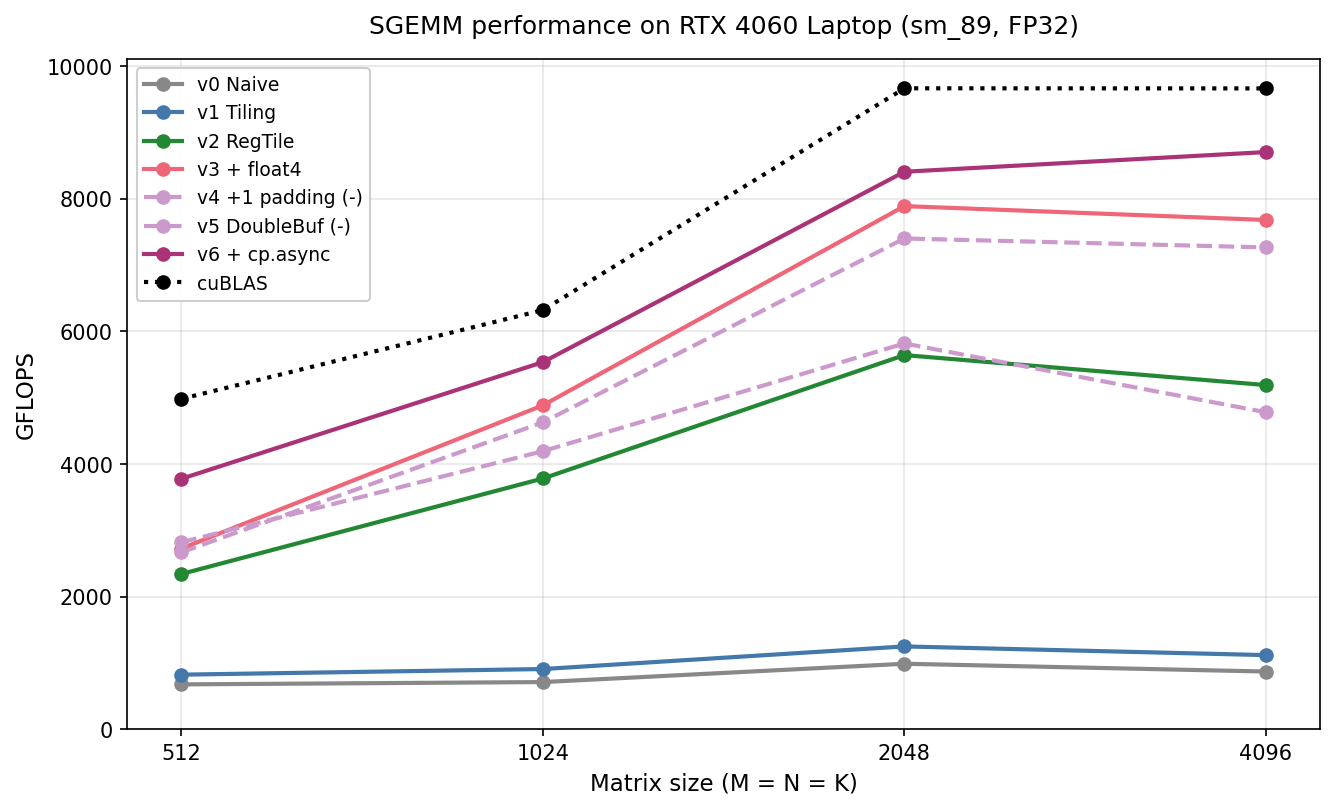
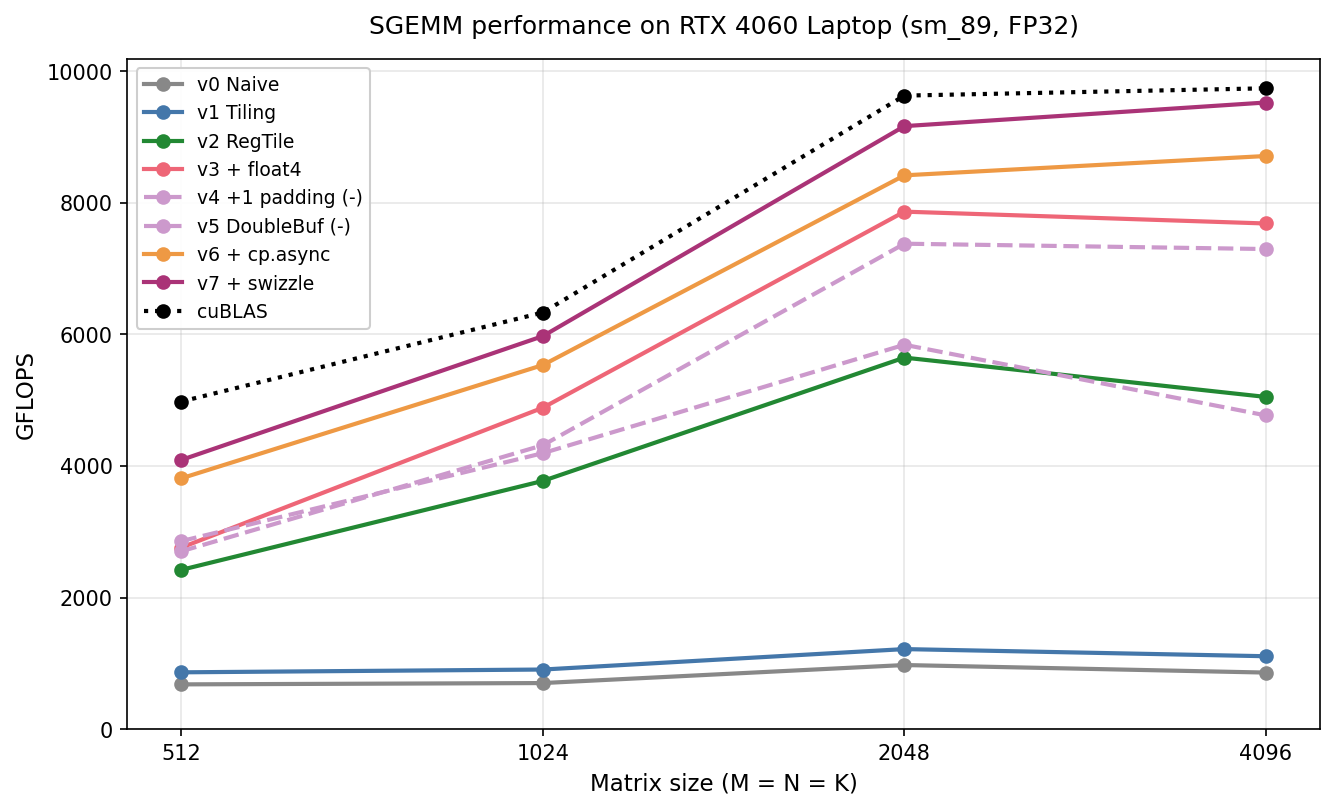
Update README + figures for v7 swizzle
Add v7 to the table and charts (one consistent 4096 run: 9524 GFLOPS,
~98% of cuBLAS, the new headline). New "Why v7 wins" section: the XOR
swizzle drives shared bank conflicts to zero (268M -> 0), shared-load
traffic -43%, occupancy unchanged. All numbers refreshed to the same run.

diff --git a/scripts/plot_results.py b/scripts/plot_results.py
@@ -12,7 +12,7 @@ Outputs:
 
 Numbers below come from the most recent full-power benchmark run on
 RTX 4060 Laptop (sm_89), CUDA 12.4, alpha=1, beta=0, 10 timed iterations
-(2026-05-21 run, includes v6 cp.async).
+(2026-05-21 run, includes v6 cp.async + v7 swizzle).
 Update this dict when you re-run benchmarks.
 """
 
@@ -27,14 +27,15 @@ from pathlib import Path
 SIZES = [512, 1024, 2048, 4096]
 
 RESULTS = {
-    "v0 Naive":          [674.6,  709.3,  985.7,  868.6],
-    "v1 Tiling":         [821.1,  906.1, 1247.4, 1116.3],
-    "v2 RegTile":        [2340.7, 3781.7, 5643.8, 5191.3],
-    "v3 + float4":       [2724.5, 4885.6, 7892.1, 7682.8],
-    "v4 +1 padding (-)": [2667.5, 4629.2, 7403.7, 7268.5],
-    "v5 DoubleBuf (-)":  [2819.4, 4193.6, 5819.2, 4780.6],
-    "v6 + cp.async":     [3777.3, 5537.7, 8410.5, 8707.6],
-    "cuBLAS":            [4983.1, 6322.7, 9669.8, 9668.0],
+    "v0 Naive":          [679.6,  699.6,  973.6,  859.0],
+    "v1 Tiling":         [862.8,  905.2, 1215.9, 1107.4],
+    "v2 RegTile":        [2420.4, 3772.5, 5646.8, 5048.7],
+    "v3 + float4":       [2759.4, 4885.2, 7865.5, 7685.3],
+    "v4 +1 padding (-)": [2702.9, 4315.2, 7378.1, 7297.0],
+    "v5 DoubleBuf (-)":  [2857.6, 4194.4, 5842.0, 4767.8],
+    "v6 + cp.async":     [3812.0, 5534.0, 8417.5, 8711.2],
+    "v7 + swizzle":      [4091.6, 5973.6, 9165.3, 9524.5],
+    "cuBLAS":            [4979.3, 6332.2, 9629.4, 9740.3],
 }
 
 # Color scheme: positive optimizations bright, negative results muted
@@ -45,7 +46,8 @@ COLORS = {
     "v3 + float4":       "#ee6677",   # float4 milestone
     "v4 +1 padding (-)": "#cc99cc",   # muted (negative)
     "v5 DoubleBuf (-)":  "#cc99cc",   # muted (negative)
-    "v6 + cp.async":     "#aa3377",   # headline (best)
+    "v6 + cp.async":     "#ee9944",   # cp.async
+    "v7 + swizzle":      "#aa3377",   # headline (best)
     "cuBLAS":            "#000000",
 }
 
@@ -57,6 +59,7 @@ LINESTYLES = {
     "v4 +1 padding (-)": "--",
     "v5 DoubleBuf (-)":  "--",
     "v6 + cp.async":     "-",
+    "v7 + swizzle":      "-",
     "cuBLAS":            ":",
 }
 

diff --git a/README.md b/README.md
@@ -6,7 +6,7 @@ A step-by-step optimization study of single-precision matrix multiplication (SGE
 
 This is a **learning project**: each kernel does just one optimization (shared-memory tiling, register tiling, vectorized loads, bank-conflict avoidance, double buffering, async copy), so the impact of every step can be attributed individually with Nsight Compute metrics.
 
-v4 and v5 are **two optimizations that didn't pan out** — well-known wins on older architectures, but they regress on Ada (sm_89). They stay in the repo because the failure modes themselves are worth understanding. v6 then adds `cp.async` and becomes the fastest kernel — but the *reason* it wins (latency hiding, not the occupancy recovery you'd expect) is the most interesting result here.
+v4 and v5 are **two optimizations that didn't pan out** — well-known wins on older architectures, but they regress on Ada (sm_89). They stay in the repo because the failure modes themselves are worth understanding. v6 then adds `cp.async` (and the *reason* it wins — latency hiding, not the occupancy recovery you'd expect — is one of the more interesting results here). v7 adds an XOR-swizzled shared layout that drives the shared bank conflicts to **zero**, reaching **~98% of cuBLAS**.
 
 ![Performance bars at N=4096](docs/figures/performance_bars.png)
 
@@ -16,16 +16,17 @@ v4 and v5 are **two optimizations that didn't pan out** — well-known wins on o
 
 | Kernel | GFLOPS @ M=N=K=4096 | Speedup vs Naive | % of cuBLAS |
 |---|---:|---:|---:|
-| v0 — Naive | 869 | 1.00× | 9.0% |
-| v1 — Shared-memory tiling | 1,116 | 1.29× | 11.5% |
-| v2 — Register tiling | 5,191 | 5.98× | 53.7% |
-| v3 — + float4 vectorized loads | 7,683 | 8.85× | 79.5% |
-| v4 — + 1-padding (negative result) | 7,268 | 8.37× | 75.2% |
-| v5 — Double buffering (negative result) | 4,781 | 5.50× | 49.4% |
-| **v6 — + cp.async pipeline** ⭐ | **8,708** | **10.02×** | **90.1%** |
-| cuBLAS (FP32 SIMT, autotuned) | 9,668 | 11.13× | 100% |
+| v0 — Naive | 859 | 1.00× | 8.8% |
+| v1 — Shared-memory tiling | 1,107 | 1.29× | 11.4% |
+| v2 — Register tiling | 5,049 | 5.88× | 51.8% |
+| v3 — + float4 vectorized loads | 7,685 | 8.95× | 78.9% |
+| v4 — + 1-padding (negative result) | 7,297 | 8.49× | 74.9% |
+| v5 — Double buffering (negative result) | 4,768 | 5.55× | 49.0% |
+| v6 — + cp.async pipeline | 8,711 | 10.14× | 89.4% |
+| **v7 — + Bs XOR-swizzle** ⭐ | **9,524** | **11.09×** | **97.8%** |
+| cuBLAS (FP32 SIMT, autotuned) | 9,740 | 11.34× | 100% |
 
-Best handwritten kernel (**v6, cp.async**) reaches **90% of cuBLAS** — and this cuBLAS call is *itself* FP32 SIMT (its 9.7 TFLOPS is ~64% of the FP32 peak; a TF32 Tensor Core path would run far above the ~15 TFLOPS FP32 ceiling, which we don't see). So the remaining ~10% is **better FP32-SIMT engineering** — shape autotuning, warp-level tiling, swizzled layouts, L2-aware threadblock rasterization — *not* a different math unit. The surprise within v6 itself: its gain over v5 is **latency hiding, not occupancy** — explained in the v6 section below.
+Best handwritten kernel (**v7, cp.async + swizzle**) reaches **~98% of cuBLAS** in pure FP32 SIMT — and this cuBLAS call is *itself* FP32 SIMT (its ~9.7 TFLOPS is ~64% of the FP32 peak; a TF32 Tensor Core path would run far above the ~15 TFLOPS FP32 ceiling, which we don't see). So the small remaining gap is **better FP32-SIMT engineering** (shape autotuning, occupancy), *not* a different math unit. Two findings drive the last stretch: v6's gain is **latency hiding, not occupancy**; v7's is **eliminating the shared bank conflicts** — both explained below.
 
 ---
 
@@ -56,7 +57,8 @@ All kernels share the same launch convention: `C = α · A·B + β · C` with ro
 | v3 | `kernels/sgemm_v3_vectorized.cuh` | v2 + `float4` vectorized global → shared loads (128-bit LDG). Halves load instruction count. | **1.36× over v2**, float4 milestone |
 | v4 | `kernels/sgemm_v4_bank_conflict_free.cuh` | v3 + `+1` shared-memory padding to break shared-bank conflict pattern. | **−3% on Ada** (negative) |
 | v5 | `kernels/sgemm_v5_double_buffer.cuh` | v3 + double-buffered shared tiles to overlap global load with compute. | **−37% on Ada** (negative) |
-| v6 | `kernels/sgemm_v6_cpasync.cuh` | v3 compute core + `cp.async` (`cuda::memcpy_async` + thread-scope `cuda::pipeline`) on the global→shared load path; 2-stage double buffer. | **+13% over v3**, best result (90% cuBLAS) |
+| v6 | `kernels/sgemm_v6_cpasync.cuh` | v3 compute core + `cp.async` (`cuda::memcpy_async` + thread-scope `cuda::pipeline`) on the global→shared load path; 2-stage double buffer. | **+13% over v3** (89% cuBLAS) |
+| v7 | `kernels/sgemm_v7_swizzle.cuh` | v6 + XOR swizzle on the Bs shared layout (`perm(c4)=c4^(c4>>3)`, applied at both the `cp.async` store and the compute read) to remove the shared bank conflicts. | **+9% over v6**, best result (~98% cuBLAS) |
 
 ### Why v4 regresses on Ada
 
@@ -81,7 +83,20 @@ The hypothesis going in was that cp.async would **recover the occupancy** v5 los
 
 v6's occupancy is **identical to v5's** (16.6%) and its register count is actually *higher* — the occupancy thesis failed outright. What won instead was **latency hiding**: cp.async overlaps the global→shared transfer with compute, collapsing the `long_scoreboard` (global-memory wait) stall from 1.88 to ~0.075.
 
-Because v5 and v6 have **the same occupancy and the same bank conflicts**, the +82% jump from v5 → v6 is attributable almost entirely to that overlap. The lesson: `cp.async` provides **two independent benefits — register-bypass (→ occupancy) and async overlap (→ latency hiding)** — and on this kernel only the second one materialized. Low occupancy is not fatal when the latency it would have hidden is hidden another way. The bottleneck has now shifted from global-memory latency to the **shared-memory bank conflicts** (still 268 M) — the target for a future swizzled-layout v7.
+Because v5 and v6 have **the same occupancy and the same bank conflicts**, the +82% jump from v5 → v6 is attributable almost entirely to that overlap. The lesson: `cp.async` provides **two independent benefits — register-bypass (→ occupancy) and async overlap (→ latency hiding)** — and on this kernel only the second one materialized. Low occupancy is not fatal when the latency it would have hidden is hidden another way. The bottleneck has now shifted from global-memory latency to the **shared-memory bank conflicts** (still 268 M) — which **v7 attacks next**.
+
+### Why v7 (swizzle) wins
+
+v7 keeps everything in v6 and only changes *where* each Bs column lives in shared memory. The Bs read is 4-way bank-conflicting: a warp's 16 `float4` columns land in only 4 of the 8 `float4` bank-groups. An XOR swizzle — `perm(c4) = c4 ^ (c4 >> 3)`, applied at *both* the `cp.async` store and the compute read — spreads them across all 8 groups. It permutes whole `float4`s, so 16-byte alignment (and the `LDS.128` vectorization) is preserved; the `+1` padding of v4 couldn't do that.
+
+| Metric @ 4096 | v6 | v7 |
+|---|---:|---:|
+| shared bank conflicts | 268 M | **0** |
+| shared-load wavefronts | 671 M | 384 M |
+| `short_scoreboard` stall | 0.39 | 0.275 |
+| GFLOPS | 8,711 | **9,524** (≈98% cuBLAS) |
+
+Nsight Compute confirms the shared bank conflicts go to **zero** (not merely halved), and shared-load traffic drops 43%. Occupancy is unchanged (16.6%) — the win is purely the conflict-free shared access. At ~98% of (FP32-SIMT) cuBLAS this is near the practical ceiling for a hand-written FP32 kernel on this device; the last ~2% is occupancy- and tuning-bound, not bank-conflict-bound.
 
 ---
 
@@ -148,9 +163,10 @@ For GUI inspection, open `.ncu-rep` files in Nsight Compute on Windows / Linux d
 │   ├── sgemm_v3_vectorized.cuh
 │   ├── sgemm_v4_bank_conflict_free.cuh
 │   ├── sgemm_v5_double_buffer.cuh
-│   └── sgemm_v6_cpasync.cuh
+│   ├── sgemm_v6_cpasync.cuh
+│   └── sgemm_v7_swizzle.cuh
 ├── tests/
-│   └── test_v6_correctness.cu                # v6 correctness vs cuBLAS
+│   └── test_v6_correctness.cu                # v6 + v7 correctness vs cuBLAS
 ├── include/
 │   └── common.cuh                            # CUDA_CHECK / CUBLAS_CHECK, GpuTimer, gflops()
 ├── nsight_reports/                           # .ncu-rep per version, archived
@@ -165,8 +181,8 @@ For GUI inspection, open `.ncu-rep` files in Nsight Compute on Windows / Linux d
 
 Known but not done in this project:
 
-- **Tensor Core / WMMA / `mma.sync`** — a separate, higher ceiling at reduced precision (TF32/FP16). *Not* the reason cuBLAS beats v6 here: this benchmark's cuBLAS is FP32 SIMT (see the Hardware note). A handwritten tensor-core kernel is its own project.
-- **Swizzled shared layout (v7)** — XOR-permuted column addresses to remove the 268 M shared-bank conflicts that are now v6's dominant bottleneck. Planned next.
+- **Tensor Core / WMMA / `mma.sync`** — a separate, higher ceiling at reduced precision (TF32/FP16). *Not* the reason cuBLAS edges out v7 here: this benchmark's cuBLAS is FP32 SIMT (see the Hardware note). A handwritten tensor-core kernel is its own project.
+- **Warp-level retiling** — reshaping the warp's thread layout (warp tiling) to lift occupancy above the current 16.6%; after v7, the remaining gap to cuBLAS is occupancy- and tuning-bound, not bank-conflict-bound.
 - **Warp specialization** (producer / consumer split inside one CTA).
 - **Template-based autotuning** — searching the (BM, BN, BK, TM, TN) space per (M, N, K, sm_xx) at compile or runtime.
 
